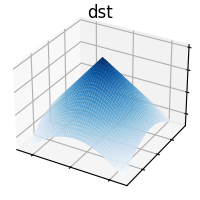
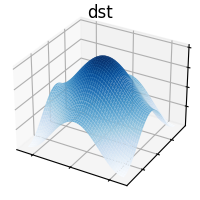
v1.1

diff --git a/README.md b/README.md
@@ -35,19 +35,15 @@
 
 ## Results
 
-#### Fisheye Distortion
+### Fisheye Distortion
 
 ![](images/readme/fisheye.png)
 
-***
-
-#### Barrel Distortion
+### Barrel Distortion
 
 ![](images/readme/barrel.png)
 
-***
-
-#### Pincushion Distortion
+### Pincushion Distortion
 
 ![](images/readme/枕形.png)    
 
@@ -61,7 +57,9 @@
 
 但是是否可以通过在三维空间中操作像平面的方式来实现畸变
 
-#### Barrel Distortion by Warping Mesh
+### Barrel Distortion by Warping Mesh
+
+src->dst: `plane.Z -= 100 * np.sqrt((plane.X * 1.0 / plane.W) ** 2 + (plane.Y * 1.0 / plane.H) ** 2)`
 
 <img src="./images/readme/warp2.png" width=70%  >
 
@@ -70,6 +68,8 @@
 ***
 
 #### Pincushion Distortion by Warping Mesh
+
+src->dst:`plane.Z += 20*np.sin(2*np.pi*((plane.X-(plane.W)/4.0)/plane.W)) + 20*np.sin(2*np.pi*((plane.Y-plane.H/4.0)/plane.H))`
 
 <img src="./images/readme/warp1.png" width=70%  >
 
